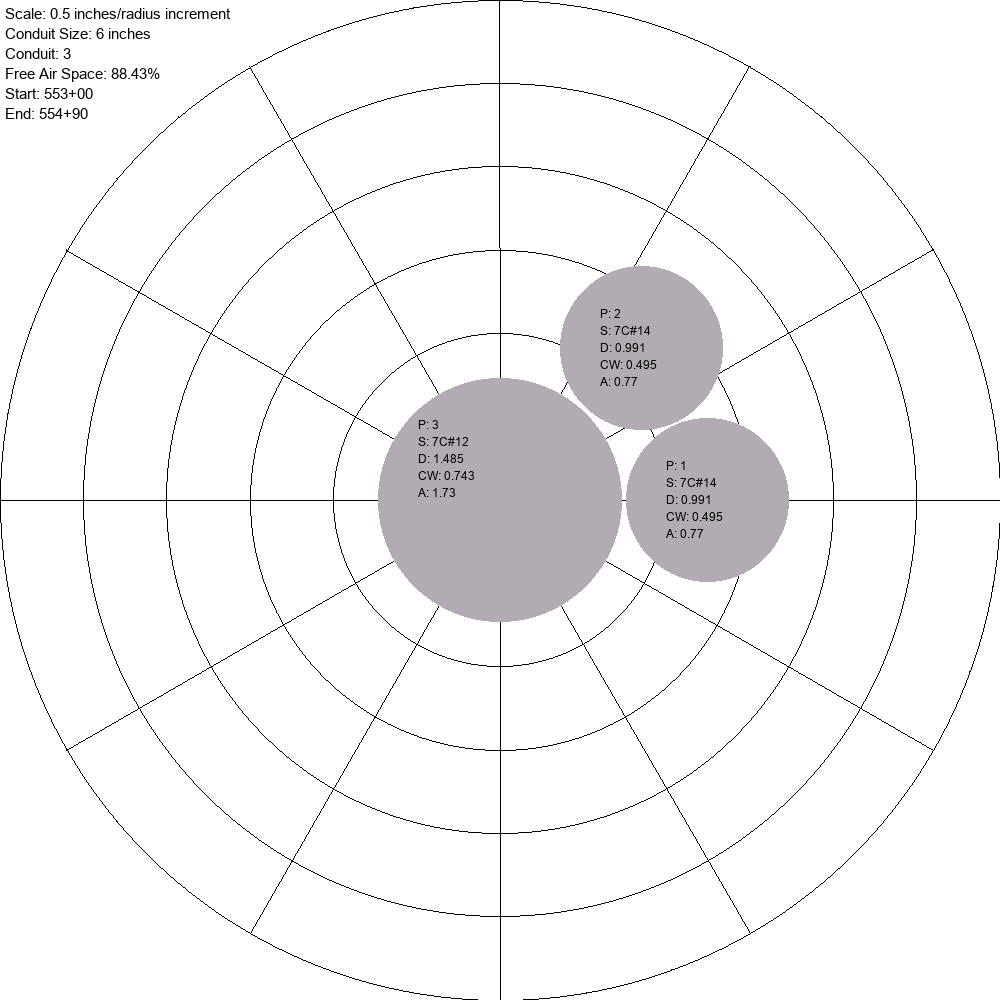
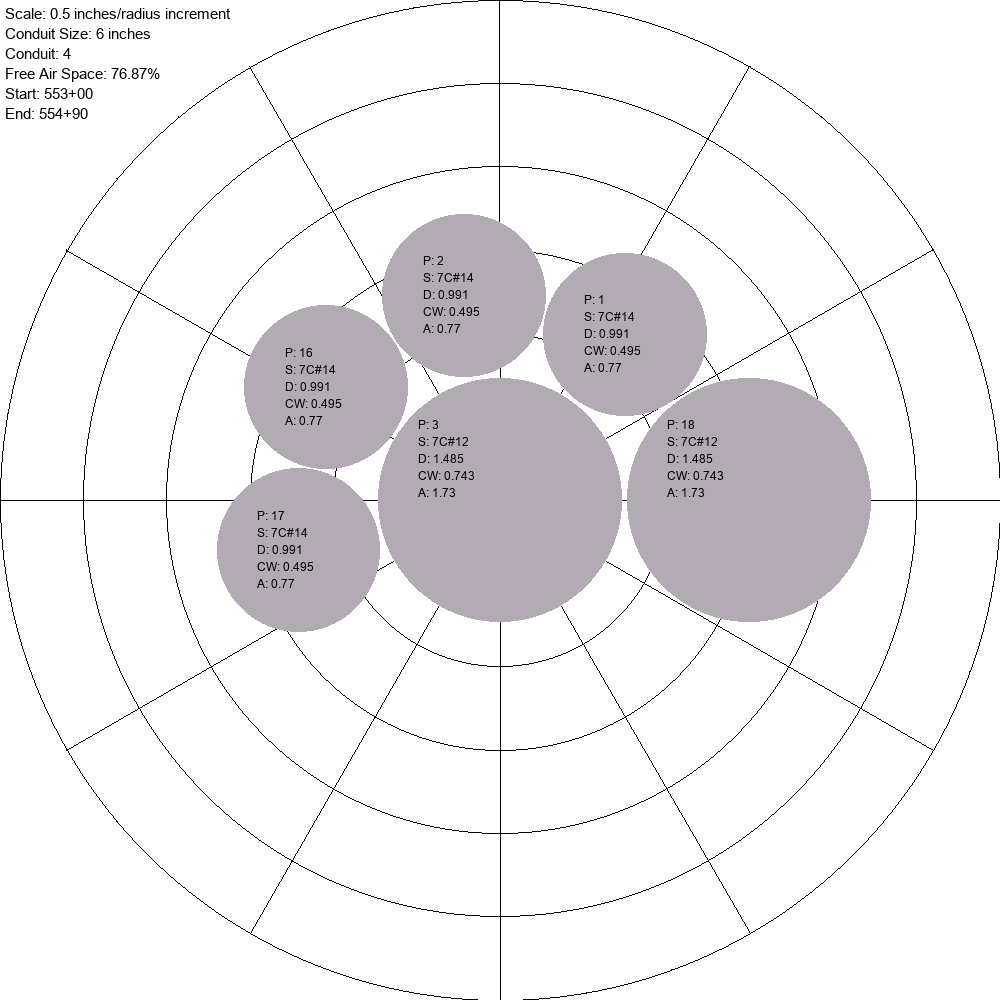
Init commit

diff --git a/conduit_algorithm.py b/conduit_algorithm.py
@@ -1,11 +1,12 @@
 from cable_classes import *
-from file_handler import *
+from file_handler import generate_output_file
 from visualizer import *
 import math
 
 
 def optimize_for_conduit():
     from file_handler import stationing_values
+    from file_handler import generate_output_file
     global conduit_number
     global conduit_free_air_space
     global stationing_start_text
@@ -16,25 +17,22 @@ def optimize_for_conduit():
     for i in range(len(stationing_values) - 1):
         # define the two stationing values that cables will be optimized between
         start_stationing = stationing_values[i]
-        print(f"Start stationing value: {start_stationing}")
         end_stationing = stationing_values[i + 1]
-        print(f"End Stationing value: {end_stationing}")
+
+        # Text for generated image
         stationing_start_text = f"{str(start_stationing)[:-2]}+{str(start_stationing)[-2:]}"
         stationing_end_text = f"{str(end_stationing)[:-2]}+{str(end_stationing)[-2:]}"
 
         # Create a list to store cables within the current stationing range
         cables_within_range = []
+
+        # Add all cables within stationing range to list
         for cable in cable_list:
             if cable.stationing_start <= start_stationing and cable.stationing_end >= end_stationing:
                 cables_within_range.append(cable)
-                print(cable.pull_number)
+
         # Sort cables within the range based on cross-sectional area (largest cable first)
         cables_within_range.sort(key=lambda cable: cable.cross_sectional_area, reverse=True)
-        # Print cables within the range after sorting
-        print("Cables within the stationing range after sorting:")
-        for cable in cables_within_range:
-            print(f"Pull Number: {cable.pull_number}, Cross-sectional Area: {cable.cross_sectional_area}")
-
 
         # Create initial conduit for stationing range
         conduit_name = "conduit" + str(conduit_number)
@@ -70,57 +68,6 @@ def optimize_for_conduit():
         conduit_number += 1  # Identifier for image
         conduit_name = "conduit" + str(conduit_number)
 
-    # # At this point, all cables within the stationing range have been assigned into a conduit.
-    # # Create new conduit image
-    # print("Pre clear")
-    # for radius, angle_deg, cable in draw_queue:
-    #     print("Radius:", radius)
-    #     print("Angle (degrees):", angle_deg)
-    #     print("Cable Information:", cable.pull_number, cable.stationing_start, cable.stationing_end)
-    #     print("-------------------------------")
-    # print ()
-    # generate_cable_image(draw_queue)  # Create full conduit image
-    # draw_queue.clear()  # Empty draw queue for next image
-    # print("Post clear")
-    # for radius, angle_deg, cable in draw_queue:
-    #     print("Radius:", radius)
-    #     print("Angle (degrees):", angle_deg)
-    #     print("Cable Information:", cable.pull_number, cable.stationing_start, cable.stationing_end)
-    #     print("-------------------------------")
-
-
-
-
-    # conduit_name = "conduit" + str(conduit_number)
-    # conduit = Conduit()
-    # conduit.add_cable(cable_list[0], 0, 0)
-    # add_to_draw_queue(cable_list[0], 0, 0)
-    # print("First cable placed. Pull number: ", cable_list[0].pull_number)
-    # conduits[conduit_name] = conduit
-
-    # if not enough space, create new conduit and load next biggest cable to center
-    # if enough space, trigger placement function
-    # check_free_air_space(conduit, cable_list[1])
-    # find_open_space(conduit, cable_list[1])
-    # check_free_air_space(conduit, cable_list[2])
-    # find_open_space(conduit, cable_list[2])
-
-    # for cable in cable_list[1:]:
-    #     if check_free_air_space(conduit, cable) == 0:
-    #         find_open_space(conduit, cable)
-    #     else:
-    #         print("Creating new conduit")
-    #         generate_cable_image(draw_queue) # Create full conduit imagae
-    #         conduit_number += 1              # Identifier for image
-    #         draw_queue.clear()               # Empty draw queue for next image
-    #         conduit_name = "conduit" + str(conduit_number)
-    #         conduit = Conduit()
-    #         conduit_free_air_space = 100
-    #         check_free_air_space(conduit, cable)
-    #         find_open_space(conduit, cable)
-    #         conduits[conduit_name] = conduit
-    #         generate_cable_image(draw_queue)
-
 
 def check_free_air_space(conduit, cable):
     global conduit_free_air_space
@@ -131,18 +78,13 @@ def check_free_air_space(conduit, cable):
     # print("Total current area taken up in the conduit:", round(total_area, 2))
     total_area += cable.cross_sectional_area
 
+    # If area taken up by all cables in conduit is less than the maximum area that can be taken up by cable
     if total_area / (math.pi * (conduit_size/2) ** 2) < (1-free_air_space_requirement):
-        # print("Conduit can fit next cable")
-        # print("Updated total current area taken up in the conduit: ", round(total_area, 2))
-        # print(f"Percent of air space taken up by cable: {round((total_area/113.1)*100, 2)}%")
+        # Update free airspace value
         conduit_free_air_space = round((1 - (total_area / (math.pi * ((conduit_size/2) ** 2)))) * 100, 2)
-        # print(f"Free Air Space: {conduit_free_air_space}%")
-
         return 0
     else:
-        print("Conduit cannot fit next cable")
-        # add logic to create another conduit
-        # also generate cable image to have a blank conduit image for next cables
+        # Logic in outer function to create next conduit
         return 1
 
 
@@ -168,32 +110,18 @@ def find_open_space(conduit, new_cable):
         # Initialize a flag to track cable overlap
         overlap = False
 
-        # print()
         # Iterate through existing cables in the conduit
         for existing_cable, (cable_radius, cable_angle) in zip(conduit.cables, conduit.cable_data):
-            # print(f"Existing Cable Pull Number: {existing_cable.pull_number}")
-            # print(f"Cable Radius TO BE CHECKED: {(existing_cable.diameter) / 2}")
-            # print(f"Proposed coordinates: Radius: {radius}, Angle: {angle}")
-            distance = calculate_distance(radius, angle, cable_radius, cable_angle)  # Calculate distance between cables
-
-            # print(f"The distance between Cable {existing_cable.pull_number} "
-            #       f"and Cable {new_cable.pull_number} is {(round(distance), 2)}")
-            #
-            # print(f"The sum of Cable {existing_cable.pull_number} "
-            #       f"and Cable {new_cable.pull_number} radii is "
-            #       f"{round((new_cable.diameter / 2) + (existing_cable.diameter) / 2), 2}")
-            # print()
+            # Calculate distance between cables
+            distance = calculate_distance(radius, angle, cable_radius, cable_angle)
 
             # If the cables are overlapping
             if distance < ((new_cable.diameter / 2) + (existing_cable.diameter / 2)):
-                # print(f"FAIL - Coordinates:  {radius}, {angle}")
                 overlap = True  # Set the overlap flag to True
-                break  # Exit the loop since overlap is detected
+                break           # Exit the loop since overlap is detected
 
         # If no overlap is detected, proceed with cable placement
         if not overlap:
-            # print(f"PASS - Coordinates: {radius}, {angle}")  # Print successful placement message
-            # print()
             # Call a function to add the new cable to the draw queue
             conduit.add_cable(new_cable, radius, angle)
             add_to_draw_queue(new_cable, radius, angle)

diff --git a/file_handler.py b/file_handler.py
@@ -6,7 +6,7 @@ from cable_classes import *
 
 def get_cable_sizes():
     # Provide the path to the folder containing the Cable Pull Sheet
-    file_path = r'C:\Users\roneill\Documents\CRO\Cable Sizes.xlsx'
+    file_path = r'C:\Users\roneill\OneDrive - Iovino Enterprises, LLC\Documents 1\Code\Git Files\Cable-Run-Optimizer\Cable Sizes.xlsx'
 
     # Load the Excel file
     workbook = openpyxl.load_workbook(file_path)
@@ -26,14 +26,6 @@ def get_cable_sizes():
 
     # Close the workbook
     workbook.close()
-
-    # Access the parameters of a cable
-    # print("Cable Sizes Excel Info:")
-    # for cable in cable_sizes:
-    #     print(
-    #         f"Size: {cable.size:<10} Diameter: {cable.diameter:<10} Cable Weight: {cable.pounds_per_foot:<10} Cross Sectional Area: {cable.cross_sectional_area:<10}")
-    # print()
-    # print("CABLE SIZES OBTAINED")
 
 
 def get_cable_pull_sheet():
@@ -186,64 +178,30 @@ def sort_stationing():
         print(f"{str(value)[:-2]}+{str(value)[-2:]}")
 
 
-
-# def create_stationing_sections():
-#     global cables_between_stationing
-#     print()
-#     print("STATIONING SECTIONS")
-#
-#     # Iterate through the stationing values to define sections
-#     for i in range(len(stationing_values) - 1):
-#         start = stationing_values[i]
-#         end = stationing_values[i + 1]
-#
-#         # Convert start and end to strings and then format them
-#         formatted_start = f"{str(start)[:-2]}+{str(start)[-2:]}"
-#         formatted_end = f"{str(end)[:-2]}+{str(end)[-2:]}"
-#
-#         # Print the range of stationing values for the current section
-#         # print(f"Cables between {formatted_start} and {formatted_end}:")
-#
-#         # Create a list to store cable objects between the stationing values
-#         cables_between = []
-#
-#         # Iterate through the cable list to find cables within the current section
-#         for cable in cable_list:
-#             if cable.stationing_start <= start and cable.stationing_end >= end:
-#                 cables_between.append(cable)  # Add the entire cable object to the list
-#
-#         # Store the cables between stationing values in the dictionary
-#         cables_between_stationing[(start, end)] = cables_between
-#
-#         # Print the list of cables between the current section
-#         # for cable in cables_between:
-#         #     print(f"- Cable Pull Number: {cable.pull_number}, Diameter: {cable.diameter}, Weight: {cable.weight}")
-#         #
-#         # print()  # Print an empty line between sections
-
-
 def generate_output_file():
     print("Output file going to be generated")
-    global stationing_values
+    # global stationing_values
 
     # Create a new workbook and select the active sheet
     workbook = openpyxl.Workbook()
     sheet = workbook.active
-    print("appended")
+    # print("appended")
 
-    # Write the stationing sections and cables into the Excel file
-    for section, cables in stationing_values.items():
-        # Write the section header
-        sheet.append([f"Between {section[0]} and {section[1]}:"])
+    # Set column headers
+    sheet["A1"] = "Conduit Name"
+    sheet["B1"] = "Cable Pull Numbers"
 
-        # Write the cable pull numbers
-        for cable in cables:
-            sheet.append([cable])
-
-        # Add an empty row between sections
-        sheet.append([])
+    # Write conduit data to the Excel file
+    row_num = 2  # Start from the second row
+    for conduit_name, conduit in conduits.items():
+        cable_pull_numbers = ", ".join(str(cable.pull_number) for cable in conduit.cables)
+        sheet[f"A{row_num}"] = conduit_name
+        sheet[f"B{row_num}"] = cable_pull_numbers
+        row_num += 1
 
     # Save the workbook to a file
-    workbook.save("stationing_sections.xlsx")
+    output_filename = "Output File.xlsx"
+    workbook.save(output_filename)
+    print(f"Conduit data has been saved to {output_filename}")
 
     print("Output file generated")

diff --git a/visualizer.py b/visualizer.py
@@ -127,10 +127,6 @@ def generate_cable_image(draw_queue):
         )
         draw.line([line_start, line_end], fill="black", width=1)
 
-    # # Loop through the draw_queue and draw each cable
-    # for radius, angle_deg, cable, cable_info in draw_queue:
-    #     draw_cable(draw, radius, angle_deg, cable, cable_info, polar_graph_center)
-
     # Loop through the draw_queue and draw each cable
     for radius, angle_deg, cable in draw_queue:
         draw_cable(draw, radius * 166, angle_deg, cable, polar_graph_center)
@@ -150,6 +146,8 @@ def generate_cable_image(draw_queue):
     text_color = "black"
     font_size = 15
     font = ImageFont.truetype("arial.ttf", font_size)
+
+    # Text printed at the top left part of the image
     text_x = 5
     # text_y = image_size[1] - font_size - 10
     text_y = 5

diff --git a/main.py b/main.py
@@ -9,5 +9,4 @@ get_cable_sizes()             # Excel of all cables and their parameters
 get_cable_pull_sheet()        # Pull Sheet excel
 sort_stationing()             # List each stationing value in the pull sheet, ordered
 optimize_for_conduit()
-
-# generate_cable_image(draw_queue)
+generate_output_file()
